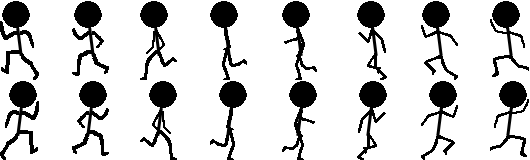
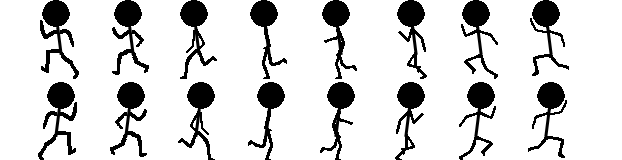
프레임 수정 1
잘못된 것을 적은 탓에 휙휙넘어가는 것은 바뀌었으나 아직 이미지 자체가 안 맞아 수정이 필요함.

diff --git a/2DGP_Project/Run&Return/stickman.py b/2DGP_Project/Run&Return/stickman.py
@@ -14,10 +14,9 @@ RUN_SPEED_PPS = (RUN_SPEED_MPS * PIXEL_PER_METER)
 
 # Boy Action Speed
 # fill expressions correctly
-TIME_PER_ACTION = 1
+TIME_PER_ACTION = 1.5
 ACTION_PER_TIME = 1.0 / TIME_PER_ACTION
 FRAMES_PER_ACTION = 8
-STICKMAN_FRAME = 8
 tile_size = 40
 
 window_top, window_right = 600, 800
@@ -80,8 +79,9 @@ class Ground:
 
     @staticmethod
     def do(stickman):
-        #stickman.frame += (FRAMES_PER_ACTION * ACTION_PER_TIME * game_framework.frame_time) % STICKMAN_FRAME
+        stickman.frame = (stickman.frame + FRAMES_PER_ACTION * ACTION_PER_TIME * game_framework.frame_time) % FRAMES_PER_ACTION
 
+        print(stickman.frame)
         stickman.calculation_yspeed()
         stickman.ypos += stickman.yspeed * game_framework.frame_time
 
@@ -90,9 +90,10 @@ class Ground:
             stickman.run_distance += abs(stickman.xspeed * game_framework.frame_time)
         stickman.xpos = clamp(0 + stickman.size//2, stickman.xpos, window_right - stickman.size//2)
 
+
     @staticmethod
     def draw(stickman):
-        stickman.image.clip_draw(int(stickman.frame * tile_size), stickman.direction * stickman.size * 2, stickman.size, stickman.size * 2, stickman.xpos,
+        stickman.image.clip_draw(int(stickman.frame * tile_size), stickman.direction * stickman.size * 2 + stickman.direction, stickman.size, stickman.size * 2, stickman.xpos,
                                   stickman.ypos)
 
 
@@ -134,7 +135,7 @@ class Air:
 
     @staticmethod
     def do(stickman):
-        #stickman.frame = (stickman.frame + FRAMES_PER_ACTION * ACTION_PER_TIME * game_framework.frame_time) % STICKMAN_FRAME
+        stickman.frame = (stickman.frame + FRAMES_PER_ACTION * ACTION_PER_TIME * game_framework.frame_time) % FRAMES_PER_ACTION
 
         stickman.calculation_yspeed()
         stickman.ypos += stickman.yspeed * game_framework.frame_time
@@ -148,7 +149,7 @@ class Air:
 
     @staticmethod
     def draw(stickman):
-        stickman.image.clip_draw(int(stickman.frame * tile_size), stickman.direction * stickman.size * 2,stickman.size, stickman.size * 2, stickman.xpos,
+        stickman.image.clip_draw(int(stickman.frame * tile_size), stickman.direction * stickman.size * 2 + 1,stickman.size, stickman.size * 2, stickman.xpos,
                                   stickman.ypos)
 
 
@@ -192,7 +193,7 @@ next_state_table = {
 
 class Stickman:
     def __init__(self):
-        self.xpos, self.ypos = 150, 280
+        self.xpos, self.ypos = 60, 280
         self.frame = 0
         self.image = load_image('resource\\character\\stage_run_animation_sheet.png')
         self.direction = right
@@ -200,7 +201,7 @@ class Stickman:
         self.opacify = 1.0
         self.opacify_variation = 1.0
         self.run_distance = 0.0
-        self.size = 39
+        self.size = 40
         self.x_crash = False
         self.jump_lock = False
         self.event_que = []

diff --git a/2DGP_Project/Run&Return/tile.py b/2DGP_Project/Run&Return/tile.py
@@ -30,4 +30,4 @@ class Tile:
 
 
     def get_bb(self):
-        return self.x * self.size, self.y * self.size, (self.x + 1) * self.size, (self.y + 1) * self.size
+        return self.x * self.size +1, self.y * self.size+1, (self.x + 1) * self.size - 1, (self.y + 1) * self.size -1

diff --git a/2DGP_Project/Run&Return/game_framework.py b/2DGP_Project/Run&Return/game_framework.py
@@ -98,7 +98,7 @@ def run(start_state):
         stack[-1].draw()
         # fill here
         frame_time = time.time() - current_time
-        frame_rate = 1.0 / frame_time
+        #frame_rate = 1.0 / frame_time
         current_time += frame_time
 
     while (len(stack) > 0):

diff --git a/2DGP_Project/Run&Return/stage_return.py b/2DGP_Project/Run&Return/stage_return.py
@@ -17,7 +17,7 @@ now_stage_num = 0
 max_vertical_num, max_horizontal_num = 15, 20
 window_top, window_right = 600, 800
 window_left, window_bottom = 0,0
-limit_time = 5.5
+limit_time = 20.5
 stage_past_time = 0
 backgroundmusic = None
 font = None

diff --git a/2DGP_Project/Run&Return/stage_run.py b/2DGP_Project/Run&Return/stage_run.py
@@ -19,7 +19,7 @@ max_vertical_num, max_horizontal_num = 15, 20
 window_top, window_right = 600, 800
 window_left, window_bottom = 0, 0
 stage_past_time = 0
-limit_time = 5
+limit_time = 20.5
 wait_time = 0
 font = None
 pause_time = 0
